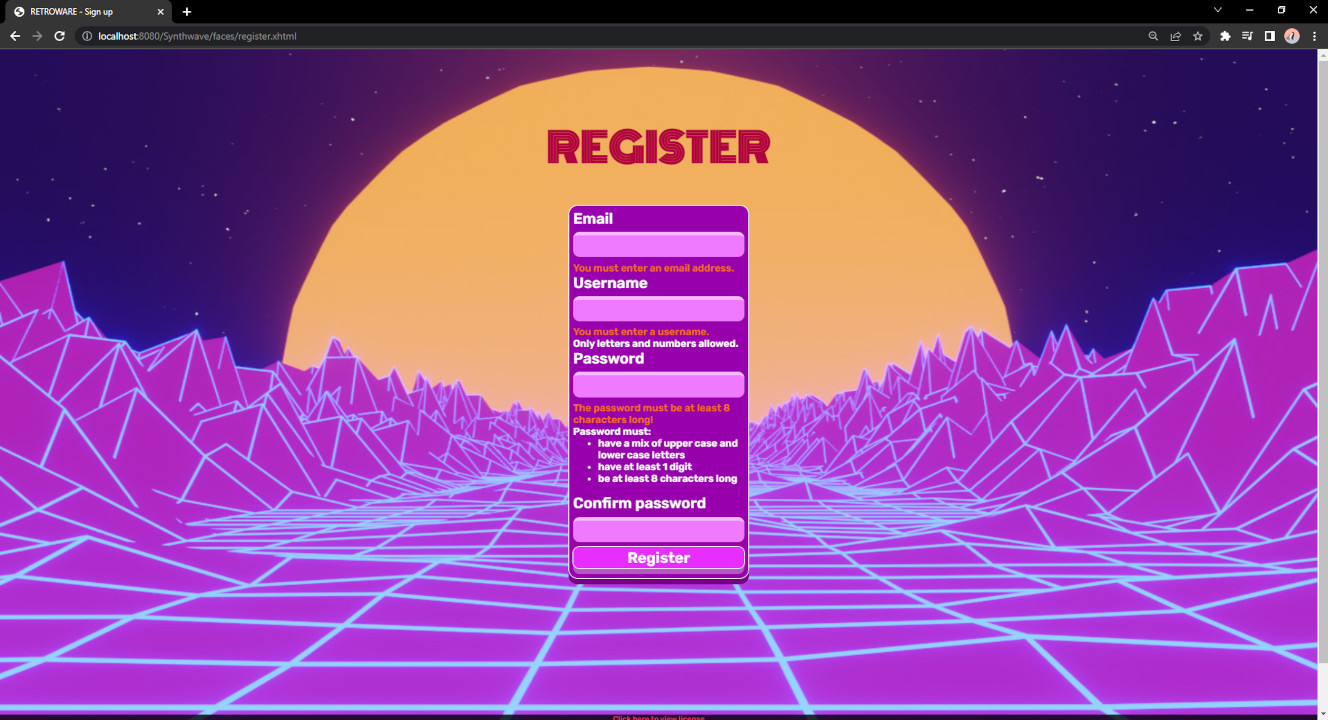
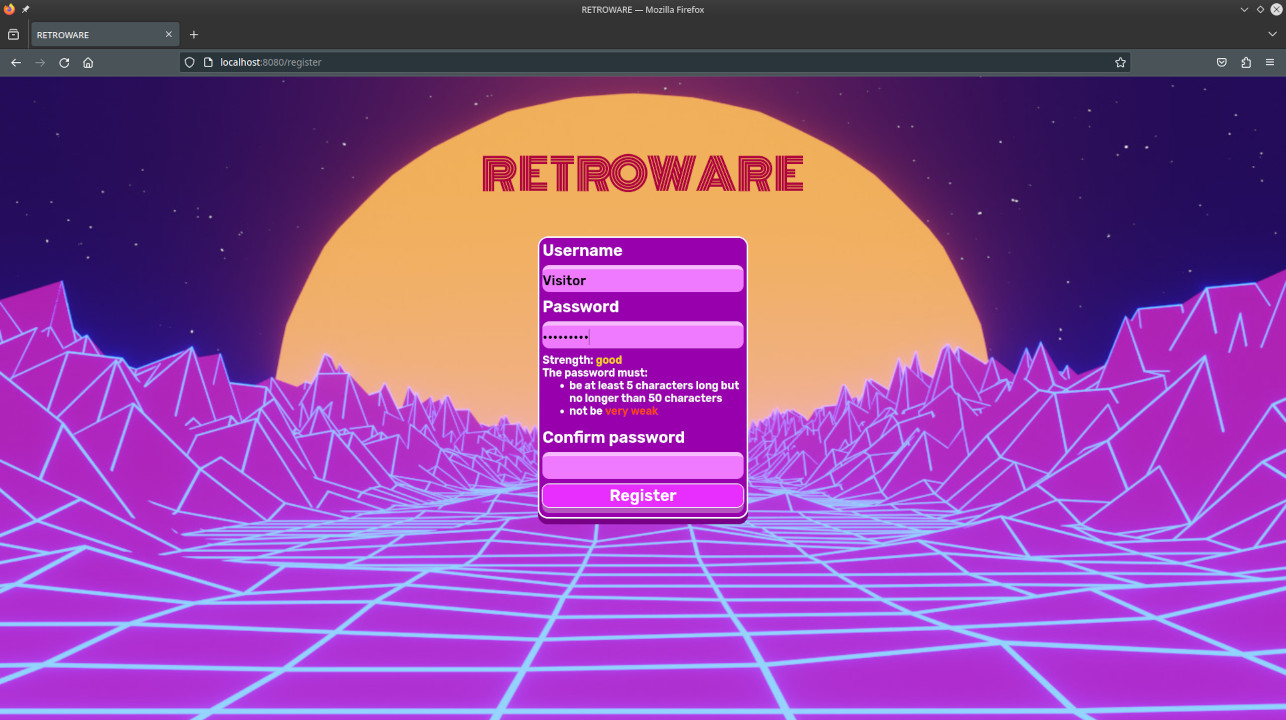
Updated project entry 'RETROWARE' and reformatted all project descriptions.
RETROWARE project has been reimplemented in Spring so its entry on this website has been changed to reflect this change. Project descriptions have been slightly changed to make them easier to read.

diff --git a/index.html b/index.html
@@ -108,7 +108,7 @@
 						<h1>Technical knowledge</h1>
 						<div class="row">
 							<ul class="enumerations">
-								<li><strong>Languages:</strong> <p>Java, Python, C, C++, C#, HTML, CSS, Javascript, SQL (Oracle and Apache)</p></li>
+								<li><strong>Languages:</strong> <p>Java, Python, C, C++, C#, HTML, CSS, Javascript, SQL</p></li>
 								<li><strong>Frameworks:</strong> <p>JUnit, JSF, Springboot, Tailwind CSS, SCSS</p></li>
 								<li><strong>Tools and technologies:</strong> <p>Git, Postman, Node.js, Arduino, Linux (Debian and Arch)</p></li>
 							</ul>
@@ -122,11 +122,13 @@
 							<article id="project-retroware"class="col-6 col-12-xsmall work-item">
 								<a href="images/fulls/retroware_01.jpg" class="image fit thumb" alt="Home page"><img src="images/thumbs/01.jpg" alt="" /></a>
 								<a href="images/fulls/retroware_02.jpg" class="image fit" alt="Game page"></a>
-								<a href="images/fulls/retroware_03.jpg" class="image fit" alt="Signup form"></a>
-								<a href="images/fulls/retroware_04.jpg" class="image fit" alt="User page"></a>
-								<h3>RETROWARE</h3>
-								<p>A website for in browser games (JavaScript).</p>
-								<p>Uses GlassFish 4.1, Apache DB and JSF.</p>
+								<a href="images/fulls/retroware_03.jpg" class="image fit" alt="Register form"></a>
+								<a href="images/fulls/retroware_04.jpg" class="image fit" alt="User profile page"></a>
+								<a href="images/fulls/retroware_05.jpg" class="image fit" alt="Game search page"></a>
+								<a href="images/fulls/retroware_06.jpg" class="image fit" alt="Custom error page"></a>
+								<a href="images/fulls/retroware_07.jpg" class="image fit" alt="Color palette check"></a>
+								<h3>RETROWARE <p>Stack: Tomcat, Spring 3.5.1, H2 database</p></h3>
+								<p>RETROWARE is a web application that hosts JavaScript browser games. Visitors may create user accounts and edit their profile, comment on games, and rate games (like or dislike).</p>
 								<ul class="actions small">
 									<li><a href="https://github.com/Proxima-Centaurii/Retroware" class="button primary small">View project</a></li>
 								</ul>
@@ -136,10 +138,9 @@
 								<a href="images/fulls/pfv-greedy.jpg" class="image fit" alt="Greedy"></a>
 								<a href="images/fulls/pfv-dfs.jpg" class="image fit" alt="Depth first search"></a>
 								<a href="images/fulls/pfv-bfs.jpg" class="image fit" alt="Breadth first search"></a>
-								<h3>Path finder visualiser</h3>
+								<h3>Path finder visualiser <p>Stack: Python 3.9, PyGame</p></h3>
 								<p>An application that allows the user to create a maze and visualise a simulation of informed and uninformed space search algorithms..
 								</p>
-								<p>Requires Python 3.9 and uses PyGame library.</p>
 								<ul class="actions small">
 									<li><a href="https://github.com/Proxima-Centaurii/Path-finder-visualiser" class="button primary small">View project</a></li>
 								</ul>
@@ -147,8 +148,8 @@
 							
 							<article id="project-smart-alarm" class="col-6 col-12-xsmall work-item">
 								<a href="images/fulls/smart_alarm.jpg" class="image fit thumb" alt="Smart alarm (Thinkercad project)."><img src="images/thumbs/03.jpg" alt="" /></a>
-								<h3>Smart alarm</h3>
-								<p>An alarm system built with Arduino, code implemented in C.</p>
+								<h3>Smart alarm <p>Stack: C, Arduino Uno, ThinkerCAD</p></h3>
+								<p>An Arduino alarm system.</p>
 								<ul class="actions small">
 									<li><a href="https://www.tinkercad.com/things/jOxP3YavhmP" class="button primary small">View project</a></li>
 								</ul>
@@ -159,24 +160,24 @@
 								<a href="images/fulls/bit_adder_03.jpg" class="image fit" alt="Alternative adder-subtractor circuit."></a>
 								<a href="images/fulls/bit_adder_04.jpg" class="image fit" alt="Computing 2 + 7 on scaled down model (early design test)."></a>
 								<a href="images/fulls/bit_adder_05.jpg" class="image fit" alt="Computing 4 - 1 (test with signed numbers)."></a>
-								<h3>Bit adder</h3>
-								<p>Bit adder circuit simulation written in Python 3. </p>
+								<h3>Bit adder <p>Stack: Python 3</p></h3>
+								<p>8-bit adder-subtractor circuit simulation. </p>
 								<ul class="actions small">
 									<li><a href="https://github.com/Proxima-Centaurii/Bit-adder" class="button primary small">View project</a></li>
 								</ul>
 							</article>
 							<article id="project-map-editor" class="col-6 col-12-xsmall work-item">
 								<a href="images/fulls/map_editor.jpg" class="image fit thumb" alt="Editing a level for FIXED (game)."><img src="images/thumbs/10.jpg" alt="" /></a>
-								<h3>Map editor</h3>
-								<p>A map editor originally developed to create levels for one of my game projects called "FIXED". (written in C#)</p>
+								<h3>Map editor <p>Stack: C#, SharpDevelop (IDE)</p></h3>
+								<p>A map editor originally developed to create levels for one of my game projects called "FIXED".</p>
 								<ul class="actions small">
 									<li><a href="https://github.com/Proxima-Centaurii/Map-Editor" class="button primary small">View project</a></li>
 								</ul>
 							</article>
 							<article id="project-fixed" class="col-6 col-12-xsmall work-item">
 								<a href="images/fulls/fixed_game.jpg" class="image fit thumb" alt="Level selection menu."><img src="images/thumbs/09.jpg" alt="" /></a>
-								<h3>FIXED (prototype)</h3>
-								<p>A puzzle game prototype. (written in C++)</p>
+								<h3>FIXED (prototype) <p>Stack: C++, SFML</p></h3>
+								<p>A puzzle game prototype.</p>
 								<ul class="actions small">
 									<li><a href="https://gamejolt.com/games/fixed/549683" class="button primary small">View project</a></li>
 								</ul>
@@ -184,7 +185,7 @@
 							<article id="project-student-manager" class="col-6 col-12-xsmall work-item">
 								<a href="images/fulls/student_manager_01.jpg" class="image fit thumb" alt="Student personal details tab."><img src="images/thumbs/04.jpg" alt="" /></a>
 								<a href="images/fulls/student_manager_02.jpg" class="image fit" alt="Student grade details tab."></a>
-								<h3>Student manager</h3>
+								<h3>Student manager <p>Stack: Java</p></h3>
 								<p>An application which keeps track of basic student details and the marks of the modules they take.</p>
 								<p>The purpose of this project was to choose suitable data structures to store student data and implement them from scratch.</p>
 								<ul class="actions small">
@@ -193,7 +194,7 @@
 							</article>
 							<article id="project-perlin-noise" class="col-6 col-12-xsmall work-item">
 								<a href="images/fulls/05.jpg" class="image fit thumb" alt="Example of terrain generation from noise map."><img src="images/thumbs/05.jpg" alt="" /></a>
-								<h3>Classic Perlin noise</h3>
+								<h3>Classic Perlin noise <p>Stack: Java</p></h3>
 								<p>A program that generates a random terrain map (top-down view). This program is heavily based on an algorithm developed by mathematician Ken Perlin in 1983 after working on the Sci-Fi movie "Tron" (1982).</p>
 								<ul class="actions small">
 									<li><a href="https://github.com/Proxima-Centaurii/Perlin-Noise" class="button primary small">View project</a></li>
@@ -201,7 +202,7 @@
 							</article>
 							<article id="project-img-to-ascii" class="col-6 col-12-xsmall work-item">
 								<a href="images/fulls/img_to_ascii_01.jpg" class="image fit thumb" alt="The Java logo converted from image into text."><img src="images/thumbs/06.jpg" alt="" /></a>
-								<h3>Image to ASCII</h3>
+								<h3>Image to ASCII <p>Stack: Java</p></h3>
 								<p>Resizes and converts an image's pixels to characters.</p>
 								<p>To view the result after conversion, open it in any text editor and zoom very far out.</p>
 								<ul class="actions small">
@@ -212,7 +213,7 @@
 							<article id="project-chat-room" class="col-6 col-12-xsmall work-item">
 								<a href="images/fulls/chat_room_01.jpg" class="image fit thumb" alt="Client-server connection."><img src="images/thumbs/08.jpg" alt="" /></a>
 								<a href="images/fulls/chat_room_02.jpg" class="image fit" alt="Server"></a>
-								<h3>Chat room</h3>
+								<h3>Chat room <p>Stack: Java</p></h3>
 								<p>A simple direct message application.</p>
 								<p>Multiple clients can connect to a single server (host) application which the user must specify the ip address of and the port.</p>
 								<ul class="actions small">
